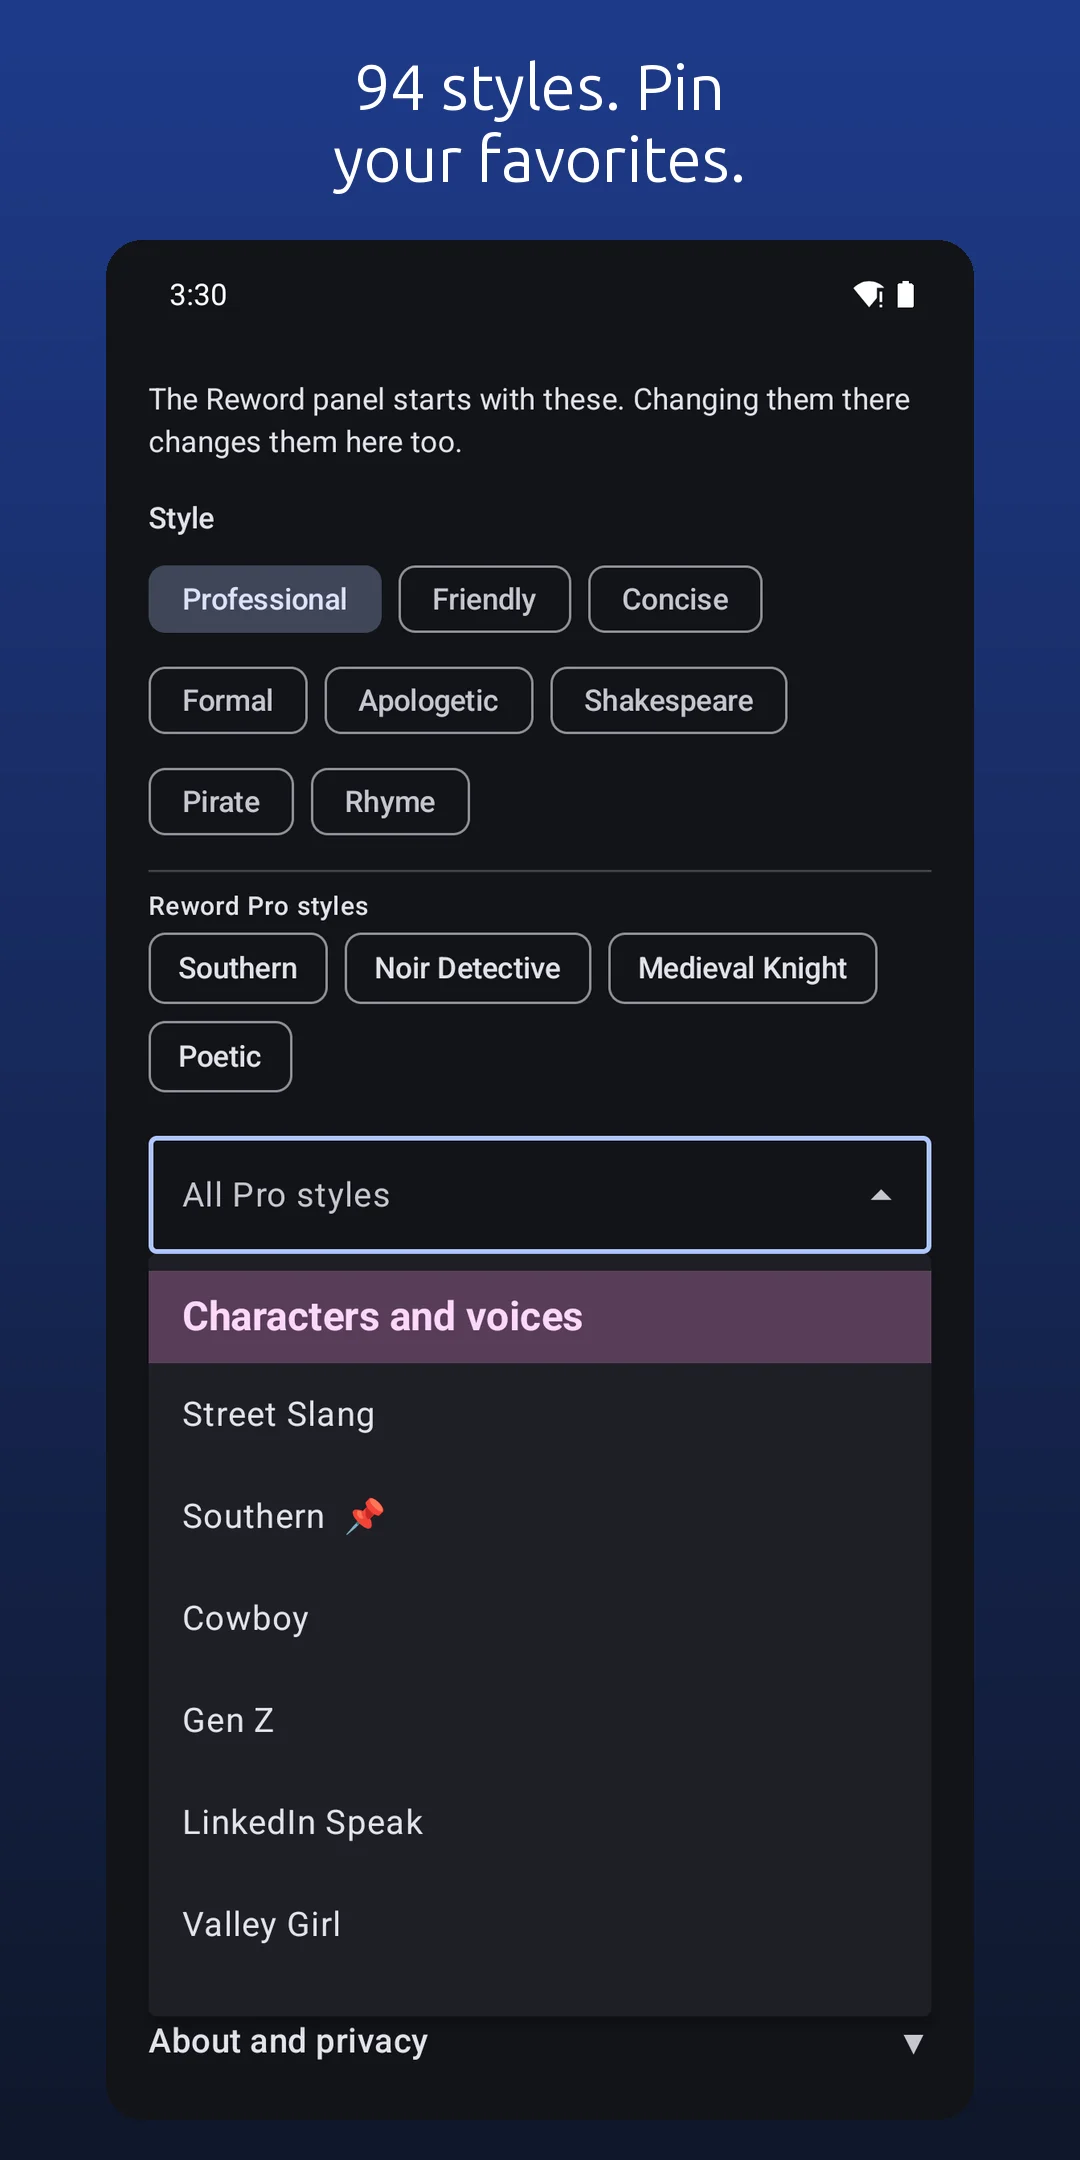
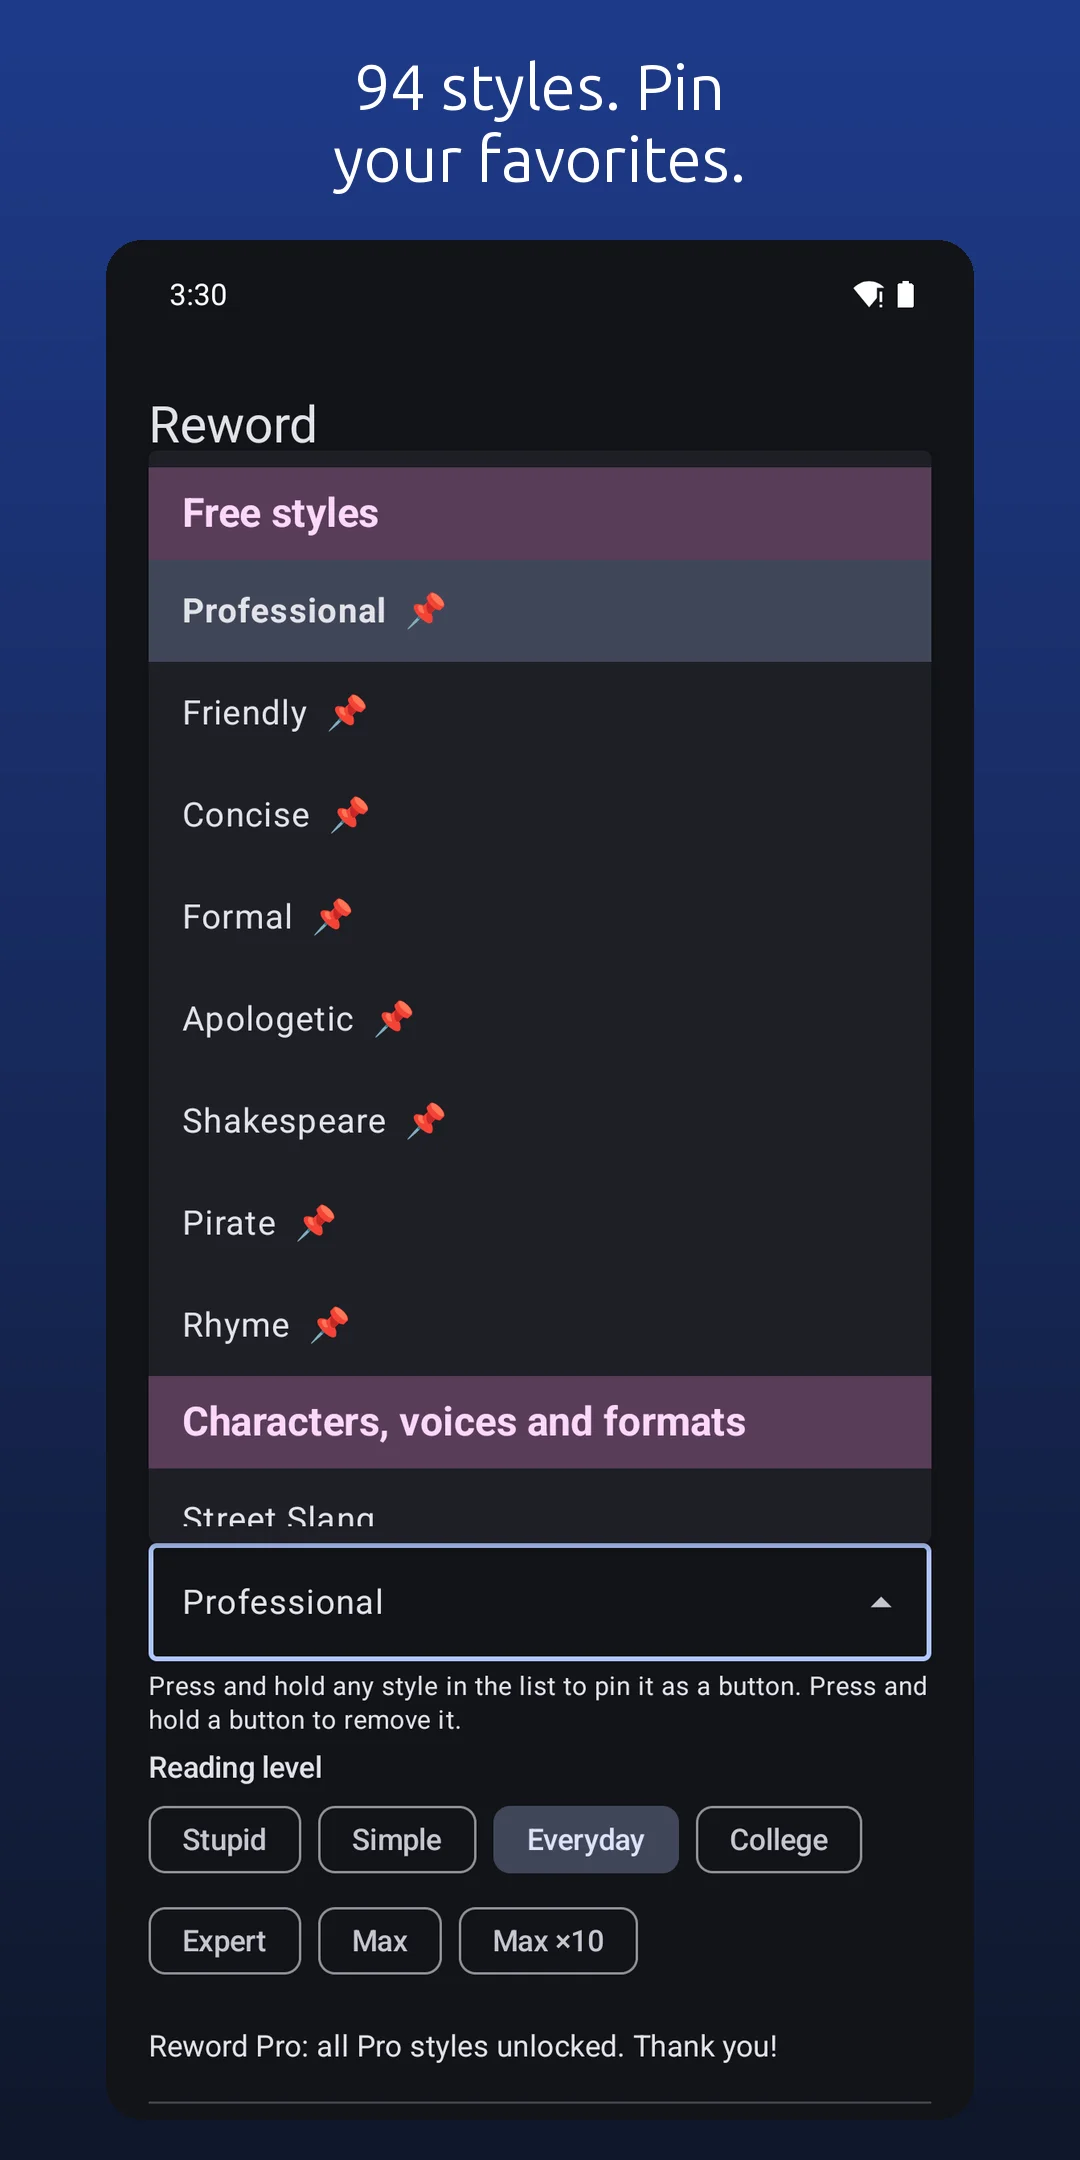
Retaken screenshots: All styles pull-down, panel Change, settings

Changed region(s): [[0.1222, 0.1861, 0.8861, 0.9616], [0.6111, 0.9306, 0.7028, 0.9616], [0.825, 0.9306, 0.8556, 0.9616]]

diff --git a/index.html b/index.html
@@ -92,13 +92,13 @@ and see the rewrite before it goes in.</p>
   <li><a href="screens/full/05-piratesent.webp?v=d2ce5eda"><img src="screens/05-piratesent.webp?v=0e372ef0" alt="The pirate rewrite after it was sent" width="540" height="1080" loading="lazy"></a></li>
   <li><a href="screens/full/06-poetic.webp?v=6d8f3a55"><img src="screens/06-poetic.webp?v=52b0c366" alt="A thank-you text rewritten as a short poem with the same meaning" width="540" height="1080" loading="lazy"></a></li>
   <li><a href="screens/full/07-poeticsent.webp?v=3cdf4287"><img src="screens/07-poeticsent.webp?v=045a0a62" alt="The poem after it was sent" width="540" height="1080" loading="lazy"></a></li>
-  <li><a href="screens/full/08-prolist.webp?v=3ee5c318"><img src="screens/08-prolist.webp?v=82e37718" alt="The pull-down of Pro styles, grouped, with a pinned style marked" width="540" height="1080" loading="lazy"></a></li>
-  <li><a href="screens/full/09-choices.webp?v=7e176a75"><img src="screens/09-choices.webp?v=c24684f8" alt="Changing the style in the Reword panel: free styles, pinned Pro styles and the pull-down" width="540" height="1080" loading="lazy"></a></li>
+  <li><a href="screens/full/08-prolist.webp?v=092b5dae"><img src="screens/08-prolist.webp?v=8931c19a" alt="The All styles pull-down: free styles first with pins, then the Pro groups" width="540" height="1080" loading="lazy"></a></li>
+  <li><a href="screens/full/09-choices.webp?v=77b41b68"><img src="screens/09-choices.webp?v=9c85ac4c" alt="Changing the style in the Reword panel: your pinned styles as buttons and the All styles pull-down" width="540" height="1080" loading="lazy"></a></li>
   <li><a href="screens/full/10-lpbefore.webp?v=0f1928ce"><img src="screens/10-lpbefore.webp?v=6d1de5db" alt="Tapping the Reword button on a messy text about bringing home dinner" width="540" height="1080" loading="lazy"></a></li>
   <li><a href="screens/full/11-lpafter.webp?v=4a0420d9"><img src="screens/11-lpafter.webp?v=543d6114" alt="The text reworded in place as a rhyme at the Expert reading level, with an Undo button" width="540" height="1080" loading="lazy"></a></li>
   <li><a href="screens/full/12-setup.webp?v=df0a2d04"><img src="screens/12-setup.webp?v=cfa43182" alt="Setup: choosing the AI that does the rewriting, your own server, a cloud service or the phone" width="540" height="1080" loading="lazy"></a></li>
   <li><a href="screens/full/13-disclosure.webp?v=7fde0411"><img src="screens/13-disclosure.webp?v=45829351" alt="What the Reword button can see" width="540" height="1080" loading="lazy"></a></li>
-  <li><a href="screens/full/14-settings.webp?v=e6883973"><img src="screens/14-settings.webp?v=790a5e93" alt="Settings: your default style and reading level" width="540" height="1080" loading="lazy"></a></li>
+  <li><a href="screens/full/14-settings.webp?v=59ec2b30"><img src="screens/14-settings.webp?v=0f13725f" alt="Settings: your default style and reading level" width="540" height="1080" loading="lazy"></a></li>
   <li><a href="screens/full/15-extras.webp?v=787d3fb7"><img src="screens/15-extras.webp?v=796437eb" alt="Extras: the Reword keyboard, Quick Settings and the text-selection menu" width="540" height="1080" loading="lazy"></a></li>
   <li><a href="screens/full/16-terms.webp?v=efed6f3f"><img src="screens/16-terms.webp?v=19b285bc" alt="The first-run notice: AI can make mistakes, check each message before sending, with the license under it" width="540" height="1080" loading="lazy"></a></li>
 </ul>
